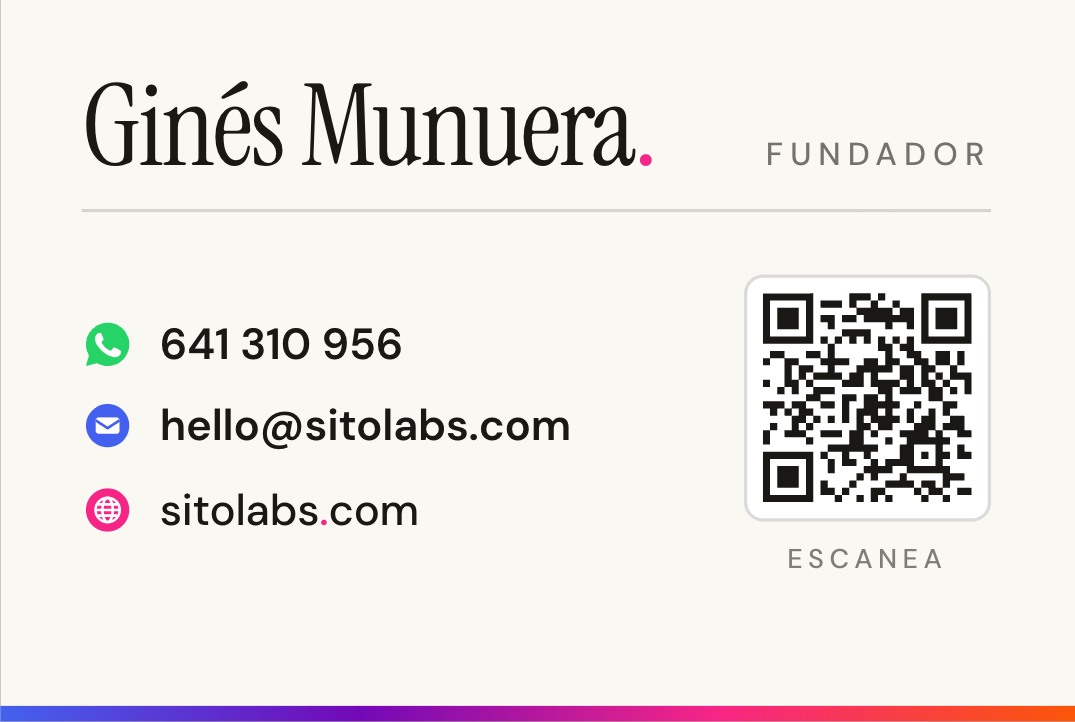
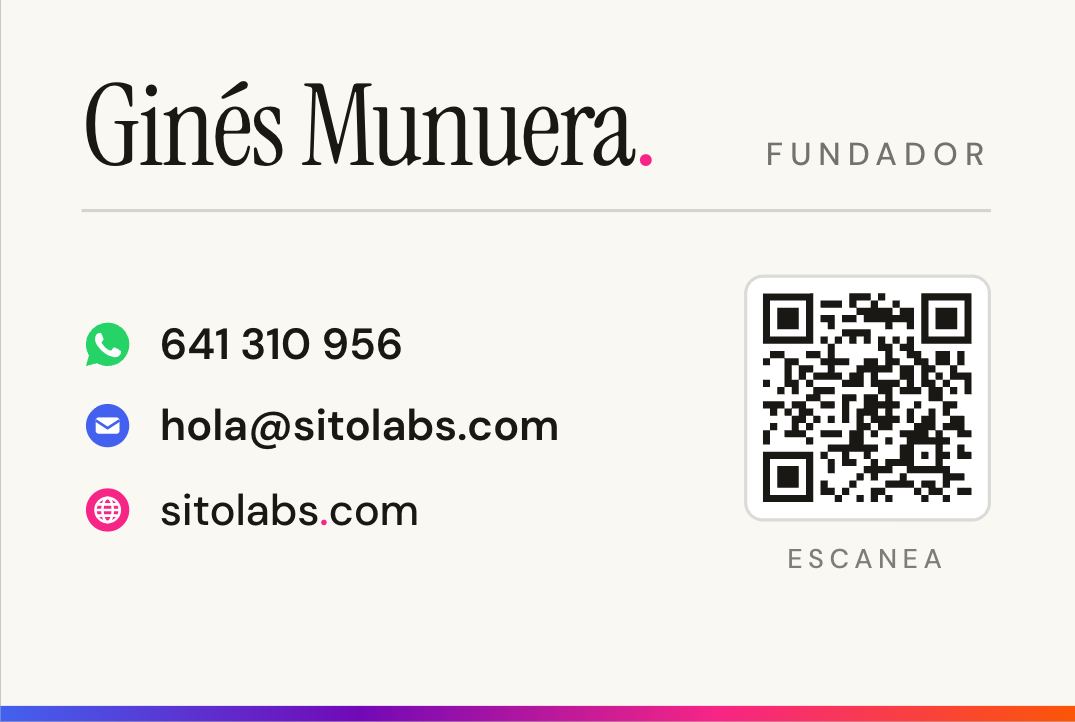
V 5.5
Tarjeta de visita
- Correo del reverso cambiado de hello@sitolabs.com a hola@sitolabs.com en brand/tarjeta-visita.html.
- Regenerados tarjeta-reverso-300dpi.png y tarjeta-reverso-preview.png con el nuevo correo.

Changed region(s): [[0.1842, 0.5485, 0.5526, 0.6399]]

diff --git a/brand/tarjeta-visita.html b/brand/tarjeta-visita.html
@@ -56,7 +56,7 @@ body.print .guide{display:none}
     <div class="head"><div class="name">Ginés Munuera<span class="dot">.</span></div><div class="role">Fundador</div></div>
     <div class="contact">
       <div class="row"><svg viewBox="0 0 24 24"><path fill="#25D366" d="M12 2a10 10 0 0 0-8.6 15.1L2 22l5.1-1.3A10 10 0 1 0 12 2z"/><path fill="#fff" d="M17.2 14.4c-.3-.1-1.7-.8-1.9-.9-.3-.1-.4-.1-.6.1-.2.3-.7.9-.9 1.1-.2.2-.3.2-.6.1-.3-.1-1.2-.4-2.3-1.4-.8-.8-1.4-1.7-1.6-2-.2-.3 0-.4.1-.6l.4-.5.3-.5c.1-.2 0-.4 0-.5l-.9-2.1c-.2-.6-.5-.5-.6-.5h-.6c-.2 0-.5.1-.8.4-.3.3-1 1-1 2.5s1.1 2.9 1.2 3.1c.1.2 2.1 3.2 5.1 4.5 2.5 1 3 .8 3.6.7.5-.1 1.7-.7 1.9-1.4.2-.7.2-1.3.2-1.4-.1-.1-.3-.2-.6-.3z"/></svg><span>641 310 956</span></div>
-      <div class="row"><svg viewBox="0 0 24 24"><circle cx="12" cy="12" r="10" fill="#4361EE"/><rect x="6.5" y="8.2" width="11" height="7.6" rx="1.4" fill="#fff"/><path d="M6.5 9.6l5.5 3.6 5.5-3.6" fill="none" stroke="#4361EE" stroke-width="1.2" stroke-linejoin="round"/></svg><span>hello@sitolabs.com</span></div>
+      <div class="row"><svg viewBox="0 0 24 24"><circle cx="12" cy="12" r="10" fill="#4361EE"/><rect x="6.5" y="8.2" width="11" height="7.6" rx="1.4" fill="#fff"/><path d="M6.5 9.6l5.5 3.6 5.5-3.6" fill="none" stroke="#4361EE" stroke-width="1.2" stroke-linejoin="round"/></svg><span>hola@sitolabs.com</span></div>
       <div class="row web"><svg viewBox="0 0 24 24"><circle cx="12" cy="12" r="10" fill="#F72585"/><g fill="none" stroke="#fff" stroke-width="1.2"><circle cx="12" cy="12" r="5.6"/><ellipse cx="12" cy="12" rx="2.4" ry="5.6"/><path d="M6.4 12h11.2M7.4 9.4h9.2M7.4 14.6h9.2"/></g></svg><span>sitolabs<span class="dot">.</span>com</span></div>
     </div>
     <div class="qrbox"><div class="qr"><svg id="qr" viewBox="0 0 29 29" shape-rendering="crispEdges"></svg></div><small>Escanea</small></div>
